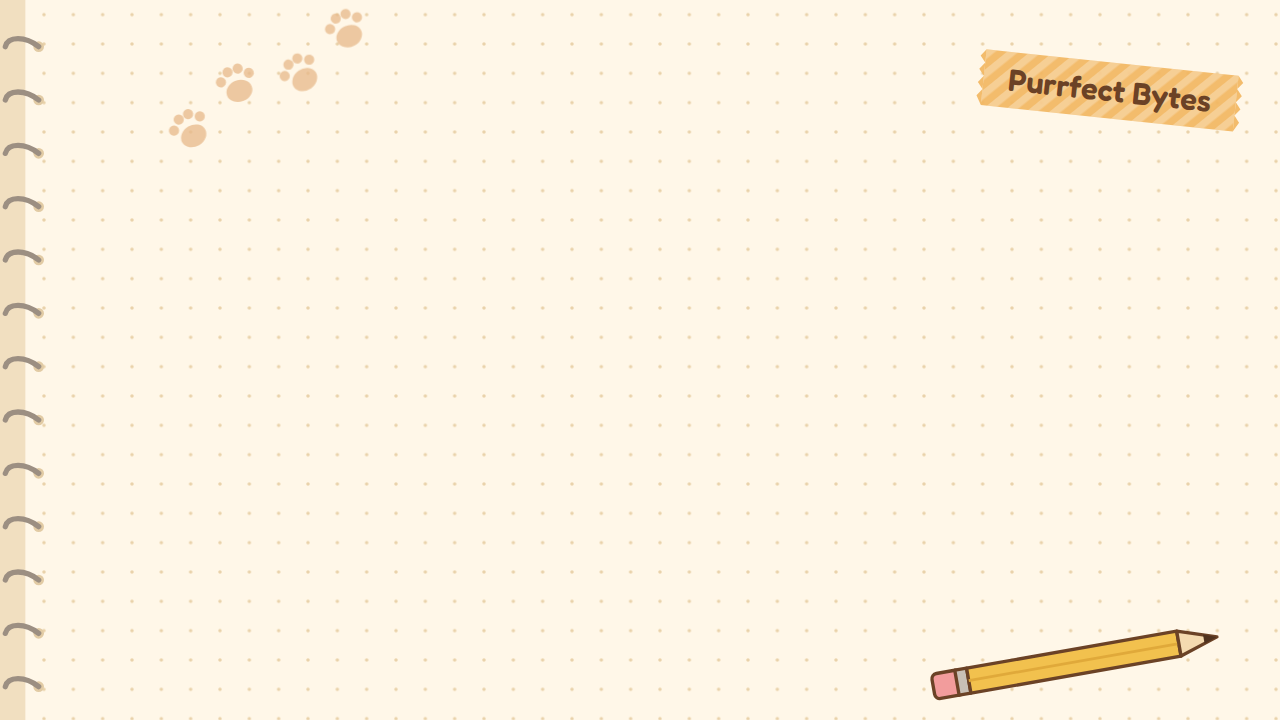
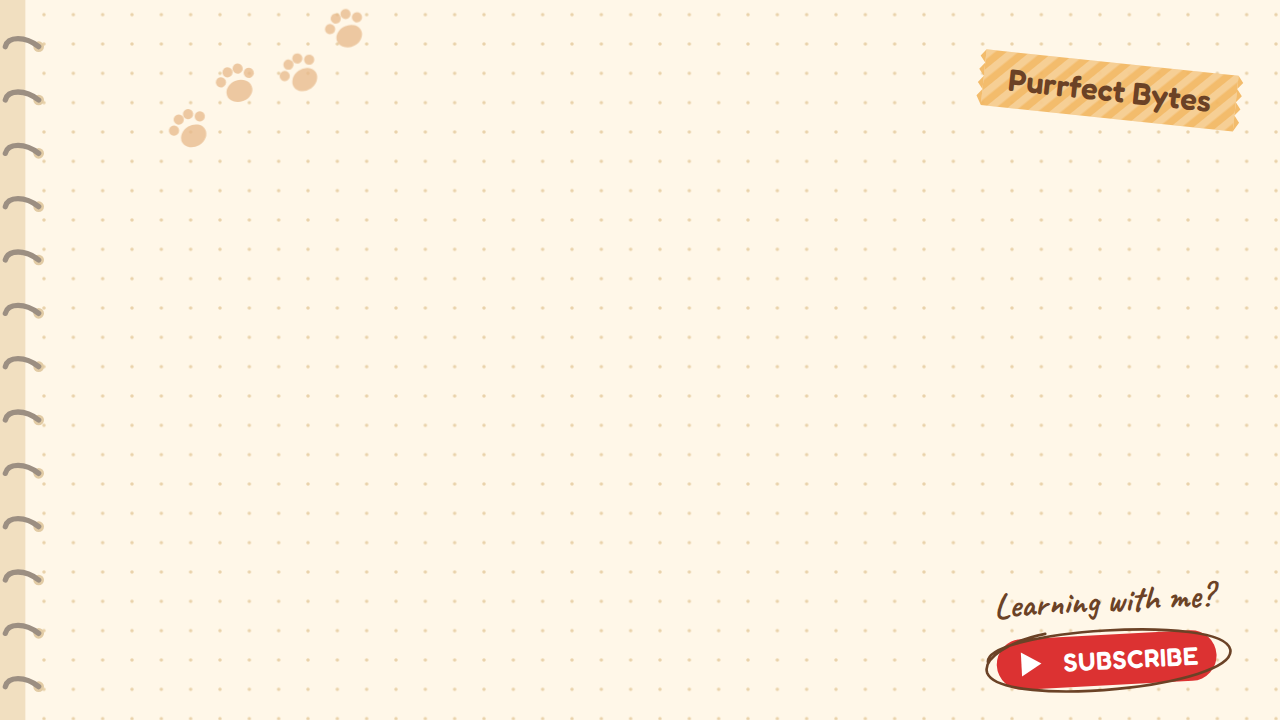
feat: Subscribe and PayPal calls to action in the video background
Every video now has a Subscribe button, circled in pen, with "Learning with
me?" above it, in the bottom-right corner where the pencil was.

Videos with the PayPal QR code also get a handwritten note, "Enjoying this?
Scan to support!", with an arrow pointing at the code. That note lives in a
second background, background_qr.png, because without the QR code it would
point at nothing:

- web: _load_assets picks background_qr.png when show_qr_code is set (the
  default in the page), background.png otherwise
- Android always draws the QR code, so it always uses background_qr

The note starts clear of the web's 150px QR code, so it also clears
Android's 120px one. Android keeps its text above both notes; on the web,
text of seven or more lines at the default size can reach them.

design/background.html draws both: open it with ?qr for the QR version.

Claude-Session: https://claude.ai/code/session_0114kAcskjcRSxcxmyTtFDiV

Changed region(s): [[0.7188, 0.825, 0.9688, 0.9778], [0.9375, 0.7944, 0.9688, 0.825]]

diff --git a/design/background.html b/design/background.html
@@ -1,9 +1,11 @@
 <!doctype html>
 <html><head><meta charset="utf-8">
-<link href="https://fonts.googleapis.com/css2?family=Fredoka:wght@600&display=block" rel="stylesheet">
+<link href="https://fonts.googleapis.com/css2?family=Caveat:wght@700&family=Fredoka:wght@600&display=block" rel="stylesheet">
 <style>html,body{margin:0;width:1280px;height:720px;overflow:hidden}svg{display:block}</style>
 </head><body>
-<!-- B: Study journal. Dot-grid page with spiral binding, washi tape carrying the name, a pencil and paw prints. -->
+<!-- Study journal: dot-grid page with spiral binding, paw prints, washi tape carrying the name, and a
+     Subscribe button. Opened as background.html?qr it also carries the note pointing at the PayPal QR
+     code, which the web app draws at (20, 550), 150px square, and Android at (20, 580), 120px square, in the 1280x720 frame. -->
 <svg width="1280" height="720" viewBox="0 0 1920 1080" xmlns="http://www.w3.org/2000/svg">
   <defs>
     <pattern id="dots" width="44" height="44" patternUnits="userSpaceOnUse">
@@ -50,14 +52,23 @@
     <text x="190" y="58" text-anchor="middle" font-family="Fredoka" font-weight="600" font-size="46" fill="#6B4226">Purrfect Bytes</text>
   </g>
 
-  <!-- pencil -->
-  <g transform="translate(1440 1004) rotate(-10)" stroke="#6B4226" stroke-width="5" stroke-linejoin="round">
-    <rect x="-44" y="0" width="44" height="38" rx="8" fill="#F29C9C"/>
-    <rect x="-8" y="0" width="18" height="38" fill="#C8C0B6"/>
-    <rect x="10" y="0" width="320" height="38" fill="#F2C14E"/>
-    <line x1="10" y1="19" x2="330" y2="19" stroke="#E0A93A" stroke-width="4"/>
-    <path d="M330 0 L388 19 L330 38 Z" fill="#F4DAB0"/>
-    <path d="M368 12 L388 19 L368 26 Z" fill="#50321E" stroke="none"/>
+  <!-- subscribe, bottom right -->
+  <g transform="rotate(-3 1660 990)">
+    <text x="1660" y="918" text-anchor="middle" font-family="Caveat" font-weight="700" font-size="52" fill="#6B4226">Learning with me?</text>
+    <rect x="1495" y="952" width="330" height="76" rx="38" fill="#DC3232"/>
+    <path d="M1532 972 l30 18 l-30 18 Z" fill="#FFFFFF"/>
+    <text x="1697" y="1004" text-anchor="middle" font-family="Fredoka" font-weight="600" font-size="38" fill="#FFFFFF" letter-spacing="1">SUBSCRIBE</text>
+    <path d="M1482 984 C 1480 936, 1838 930, 1846 984 C 1854 1040, 1500 1056, 1480 1000 C 1474 978, 1516 954, 1570 946"
+          fill="none" stroke="#6B4226" stroke-width="4" stroke-linecap="round"/>
+  </g>
+
+  <!-- note pointing at the PayPal QR code (only with ?qr) -->
+  <g id="qr-note" display="none" fill="#6B4226" font-family="Caveat" font-weight="700" font-size="60">
+    <text x="366" y="944">Enjoying this?</text>
+    <text x="366" y="1004">Scan to support!</text>
+    <path d="M358 1018 C 326 1036, 284 1012, 270 975 M270 975 L267 1003 M270 975 L293 991"
+          fill="none" stroke="#6B4226" stroke-width="5" stroke-linecap="round" stroke-linejoin="round"/>
   </g>
 </svg>
+<script>if (location.search.includes('qr')) document.getElementById('qr-note').setAttribute('display', 'inline');</script>
 </body></html>

diff --git a/PurrfectBytesAndroid/app/src/main/java/com/purrfectbytes/android/services/VideoGeneratorService.kt b/PurrfectBytesAndroid/app/src/main/java/com/purrfectbytes/android/services/VideoGeneratorService.kt
@@ -132,12 +132,16 @@ class VideoGeneratorService internal constructor(
         }
     }
 
-    /** Background, QR code and logo at the size they are drawn; decoded once, then reused. */
+    /**
+     * Background, QR code and logo at the size they are drawn; decoded once, then reused.
+     * The QR code is always drawn, so the background is always the one with the note
+     * that points at it.
+     */
     private class Assets(val background: Bitmap?, val qrCode: Bitmap?, val logo: Bitmap?)
 
     private val assets: Assets by lazy {
         Assets(
-            background = decode(R.drawable.background, FrameRenderer.WIDTH, FrameRenderer.HEIGHT),
+            background = decode(R.drawable.background_qr, FrameRenderer.WIDTH, FrameRenderer.HEIGHT),
             qrCode = decode(R.drawable.paypal_qr, FrameRenderer.QR_SIZE, FrameRenderer.QR_SIZE),
             logo = decode(R.drawable.logo_small, FrameRenderer.LOGO_SIZE, FrameRenderer.LOGO_SIZE)
         )

diff --git a/PurrfectBytesWeb/src/services/video_generation.py b/PurrfectBytesWeb/src/services/video_generation.py
@@ -327,6 +327,9 @@ def _load_asset(name: str, mode: str, size: Tuple[int, int]) -> Optional[Image.I
 def _load_assets(show_qr_code: bool = False):
     """Background image, QR code, and cat logo, decoded once and reused.
 
+    With the QR code the background is the one carrying the note that points
+    at it; without, that note would point at nothing.
+
     The returned images are shared cache entries - copy before drawing on them.
     """
     qr_size = QR_CODE_CONFIG.get("size", 120)
@@ -334,7 +337,8 @@ def _load_assets(show_qr_code: bool = False):
     qr_opacity = QR_CODE_CONFIG.get("opacity", 0.9)
     cat_size = 80
 
-    background_img = _load_asset("background.png", "RGB", (1280, 720))
+    background_name = "background_qr.png" if show_qr_code else "background.png"
+    background_img = _load_asset(background_name, "RGB", (1280, 720))
     qr_code_img = _load_asset("paypal_qr.png", "RGBA", (qr_size, qr_size)) if show_qr_code else None
     cat_logo = _load_asset("logo_small.png", "RGBA", (cat_size, cat_size))
     if cat_logo is None:

diff --git a/PurrfectBytesWeb/tests/unit/services/test_video_generation.py b/PurrfectBytesWeb/tests/unit/services/test_video_generation.py
@@ -2,7 +2,24 @@
 
 from PIL import Image, ImageDraw, ImageFont
 
+import src.services.video_generation as video_generation
 from src.services.video_generation import _compute_char_layout, _map_text_positions
+
+
+class TestBackgroundChoice:
+    """The QR code gets the background whose note points at it."""
+
+    def _background(self, tmp_path, monkeypatch, show_qr_code):
+        Image.new('RGB', (1280, 720), (255, 0, 0)).save(tmp_path / "background.png")
+        Image.new('RGB', (1280, 720), (0, 0, 255)).save(tmp_path / "background_qr.png")
+        monkeypatch.setattr(video_generation, "ASSETS_DIR", tmp_path)
+        return video_generation._load_assets(show_qr_code)[0]
+
+    def test_without_qr_code(self, tmp_path, monkeypatch):
+        assert self._background(tmp_path, monkeypatch, False).getpixel((0, 0)) == (255, 0, 0)
+
+    def test_with_qr_code(self, tmp_path, monkeypatch):
+        assert self._background(tmp_path, monkeypatch, True).getpixel((0, 0)) == (0, 0, 255)
 
 
 class TestCharLayoutAlignment:
